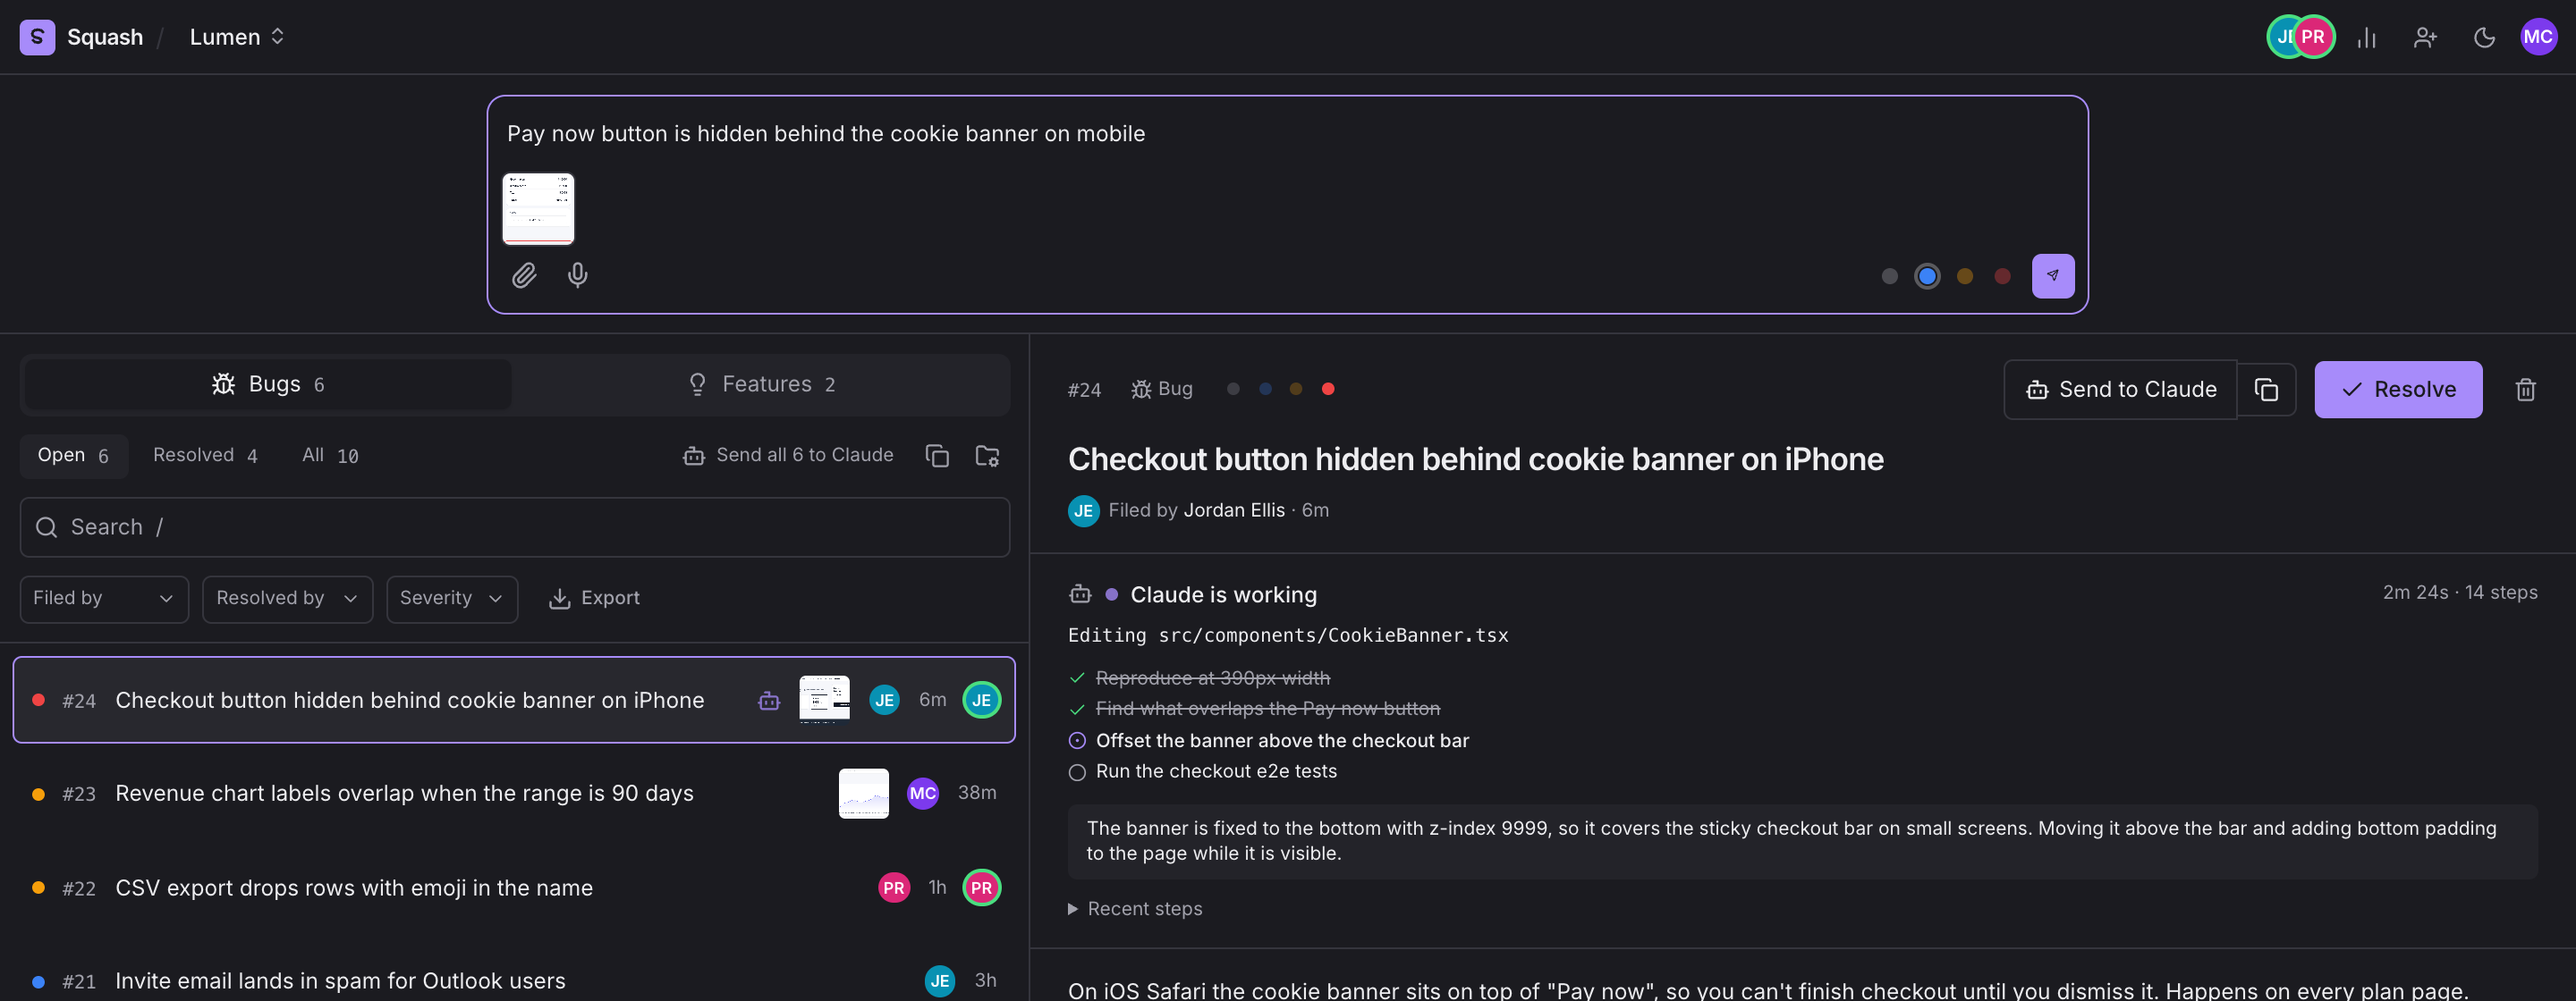
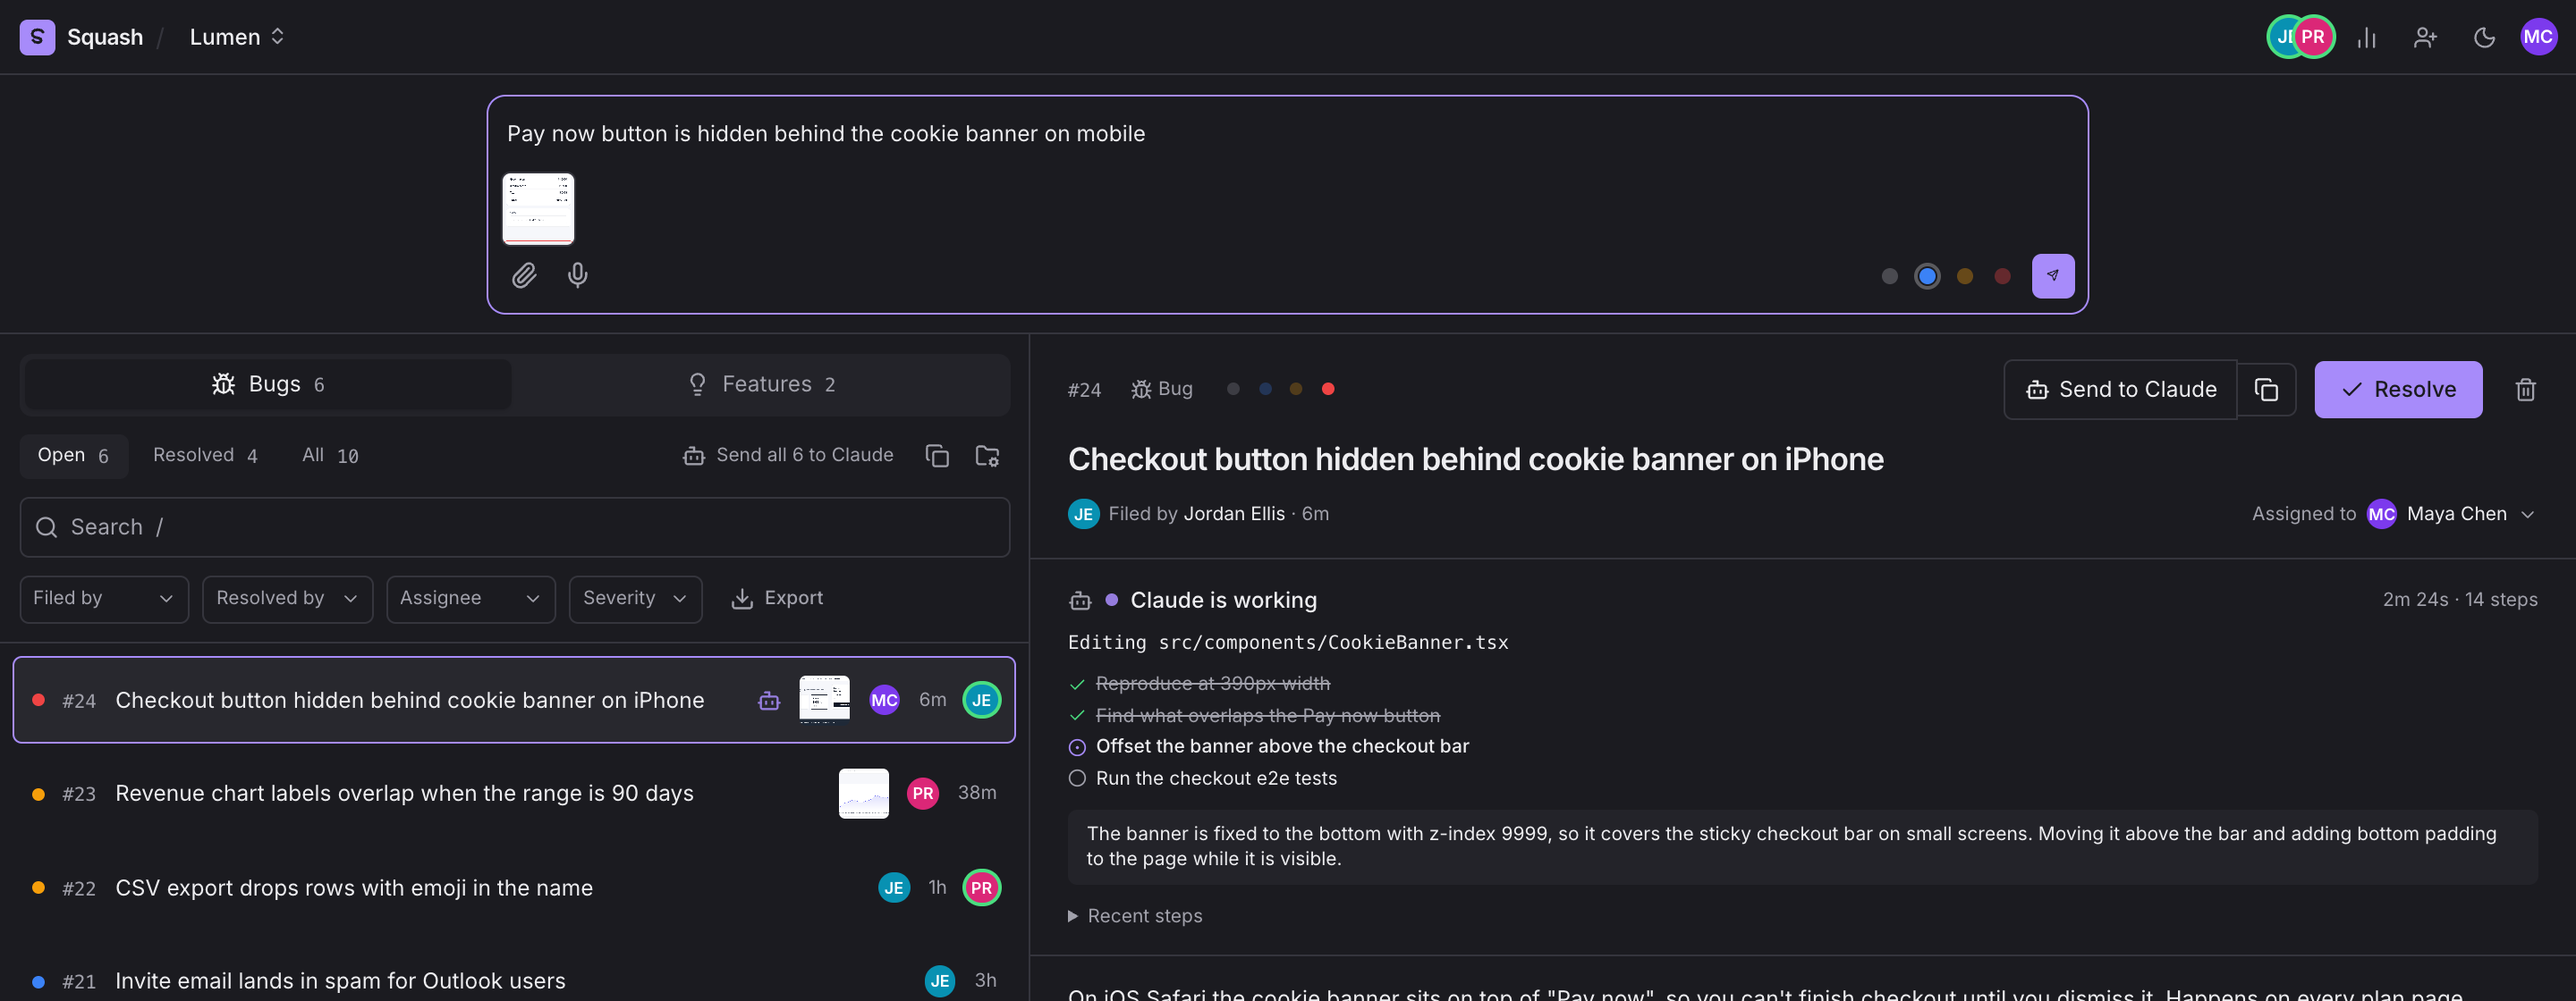
Release v1.3.0: assignees, notifications, mention autocomplete and database tests

diff --git a/README.md b/README.md
@@ -143,10 +143,12 @@ curl -fsSL https://squash-livid.vercel.app/bridge/install.sh | sh -s -- https://
 </table>
 
 - **Presence.** See who's online and which bug each teammate is looking at, and get a toast when someone files one.
+- **Assignees.** Give a bug an owner from the detail view, the command palette or one keypress (<kbd>I</kbd> takes it yourself). The list shows who owns what, and you can filter to what's yours or what nobody has picked up.
+- **Notifications that respect focus.** When Squash is in a background tab, a teammate filing a bug or assigning you one raises a desktop notification and an unread count in the tab title. Turn it on in Settings.
 - **Bugs and Features side by side.** File and track feature requests in their own tab, and move items between the two.
-- **Find anything.** Open, Resolved and All tabs with live counts; filter by who filed or resolved, or by severity; full-text search across titles, descriptions and voice transcripts.
+- **Find anything.** Open, Resolved and All tabs with live counts; filter by assignee, by who filed or resolved, or by severity; full-text search across titles, descriptions and voice transcripts.
 - **A full history.** Resolve or reopen with an optional note, or delete outright. Each bug has an activity timeline and comments.
-- **Markdown and mentions.** Descriptions and comments render bold, italics, code, lists, quotes and links, and highlight `@name` mentions. Rendering is React-only, so no HTML from a bug ever reaches the page.
+- **Markdown and mentions.** Descriptions and comments render bold, italics, code, lists, quotes and links, and `@name` mentions, which autocomplete from your teammates as you type (any script, IME friendly). Rendering is React-only, so no HTML from a bug ever reaches the page.
 - **Export.** Download the bugs you are looking at as CSV (safe to open in a spreadsheet) or as a Markdown report.
 - **Workspaces.** Invite links, a workspace switcher, and owner controls to rename, regenerate the invite, remove members, transfer ownership or delete. Sign in with Google or a magic link.
 
@@ -186,6 +188,8 @@ Press <kbd>⌘</kbd>+<kbd>K</kbd> (<kbd>Ctrl</kbd>+<kbd>K</kbd> elsewhere) to op
 | <kbd>/</kbd>                                         | Search                                   |
 | <kbd>J</kbd> / <kbd>K</kbd>                          | Next / previous bug                      |
 | <kbd>R</kbd> / <kbd>O</kbd>                          | Resolve / reopen the selected bug        |
+| <kbd>I</kbd>                                         | Assign the selected bug to yourself      |
+| <kbd>A</kbd>                                         | Open the assignee picker                 |
 | <kbd>X</kbd>                                         | Pick the selected bug for Claude         |
 | <kbd>C</kbd>                                         | Send picked (or selected) bugs to Claude |
 | <kbd>Esc</kbd>                                       | Close / back to list                     |
@@ -273,6 +277,7 @@ npm run typecheck     # tsc, strict
 npm run lint          # ESLint
 npm run format:check  # Prettier
 npm run test          # Vitest
+npm run test:db       # every migration (twice) plus the RLS suite, on in-process Postgres
 npm run build         # production build
 npm run screenshots   # regenerate the README images (needs Google Chrome and ffmpeg)
 ```

diff --git a/CHANGELOG.md b/CHANGELOG.md
@@ -2,6 +2,25 @@
 
 ## Unreleased
 
+## v1.3.0 — 2026-10-07
+
+Assignees, notifications, mention autocomplete, and database tests in CI.
+
+### Added
+
+- Assign a bug to a teammate. Pick an owner in the detail view or from the command palette, press <kbd>I</kbd> to take the selected bug yourself or <kbd>A</kbd> to open the picker, and filter the list by assignee, including "Unassigned" and "Me". The list shows the owner of each bug, and the activity timeline records every change. Needs migration `0004_assignees.sql`: only workspace members can be assigned, and a member who leaves is unassigned from their bugs.
+- Desktop notifications. While Squash is in a background tab, a teammate filing a bug or assigning one to you raises a notification, and the tab title shows how many arrived. Opt in under Settings → Appearance.
+- `@mention` autocomplete in comments. Type `@` to pick a teammate with the arrow keys; names in any script work, and composing with an IME never selects by accident.
+- `npm run test:db` applies every migration twice and runs the RLS suite on in-process Postgres (PGlite), with no Supabase project needed. CI runs it on every push.
+
+### Changed
+
+- The landing page loads about 60 KB less JavaScript (gzip). The app, settings, the Claude Code guide and the legal pages load when you open them, and the workspace is prefetched as soon as you are signed in.
+
+### Fixed
+
+- CSV export neutralizes formula prefixes typed with full-width characters and leading tabs, and the Markdown export escapes raw HTML and headings in titles.
+
 ## v1.2.0 — 2026-10-07
 
 A design pass across the whole app, plus a command palette, markdown, and export.
